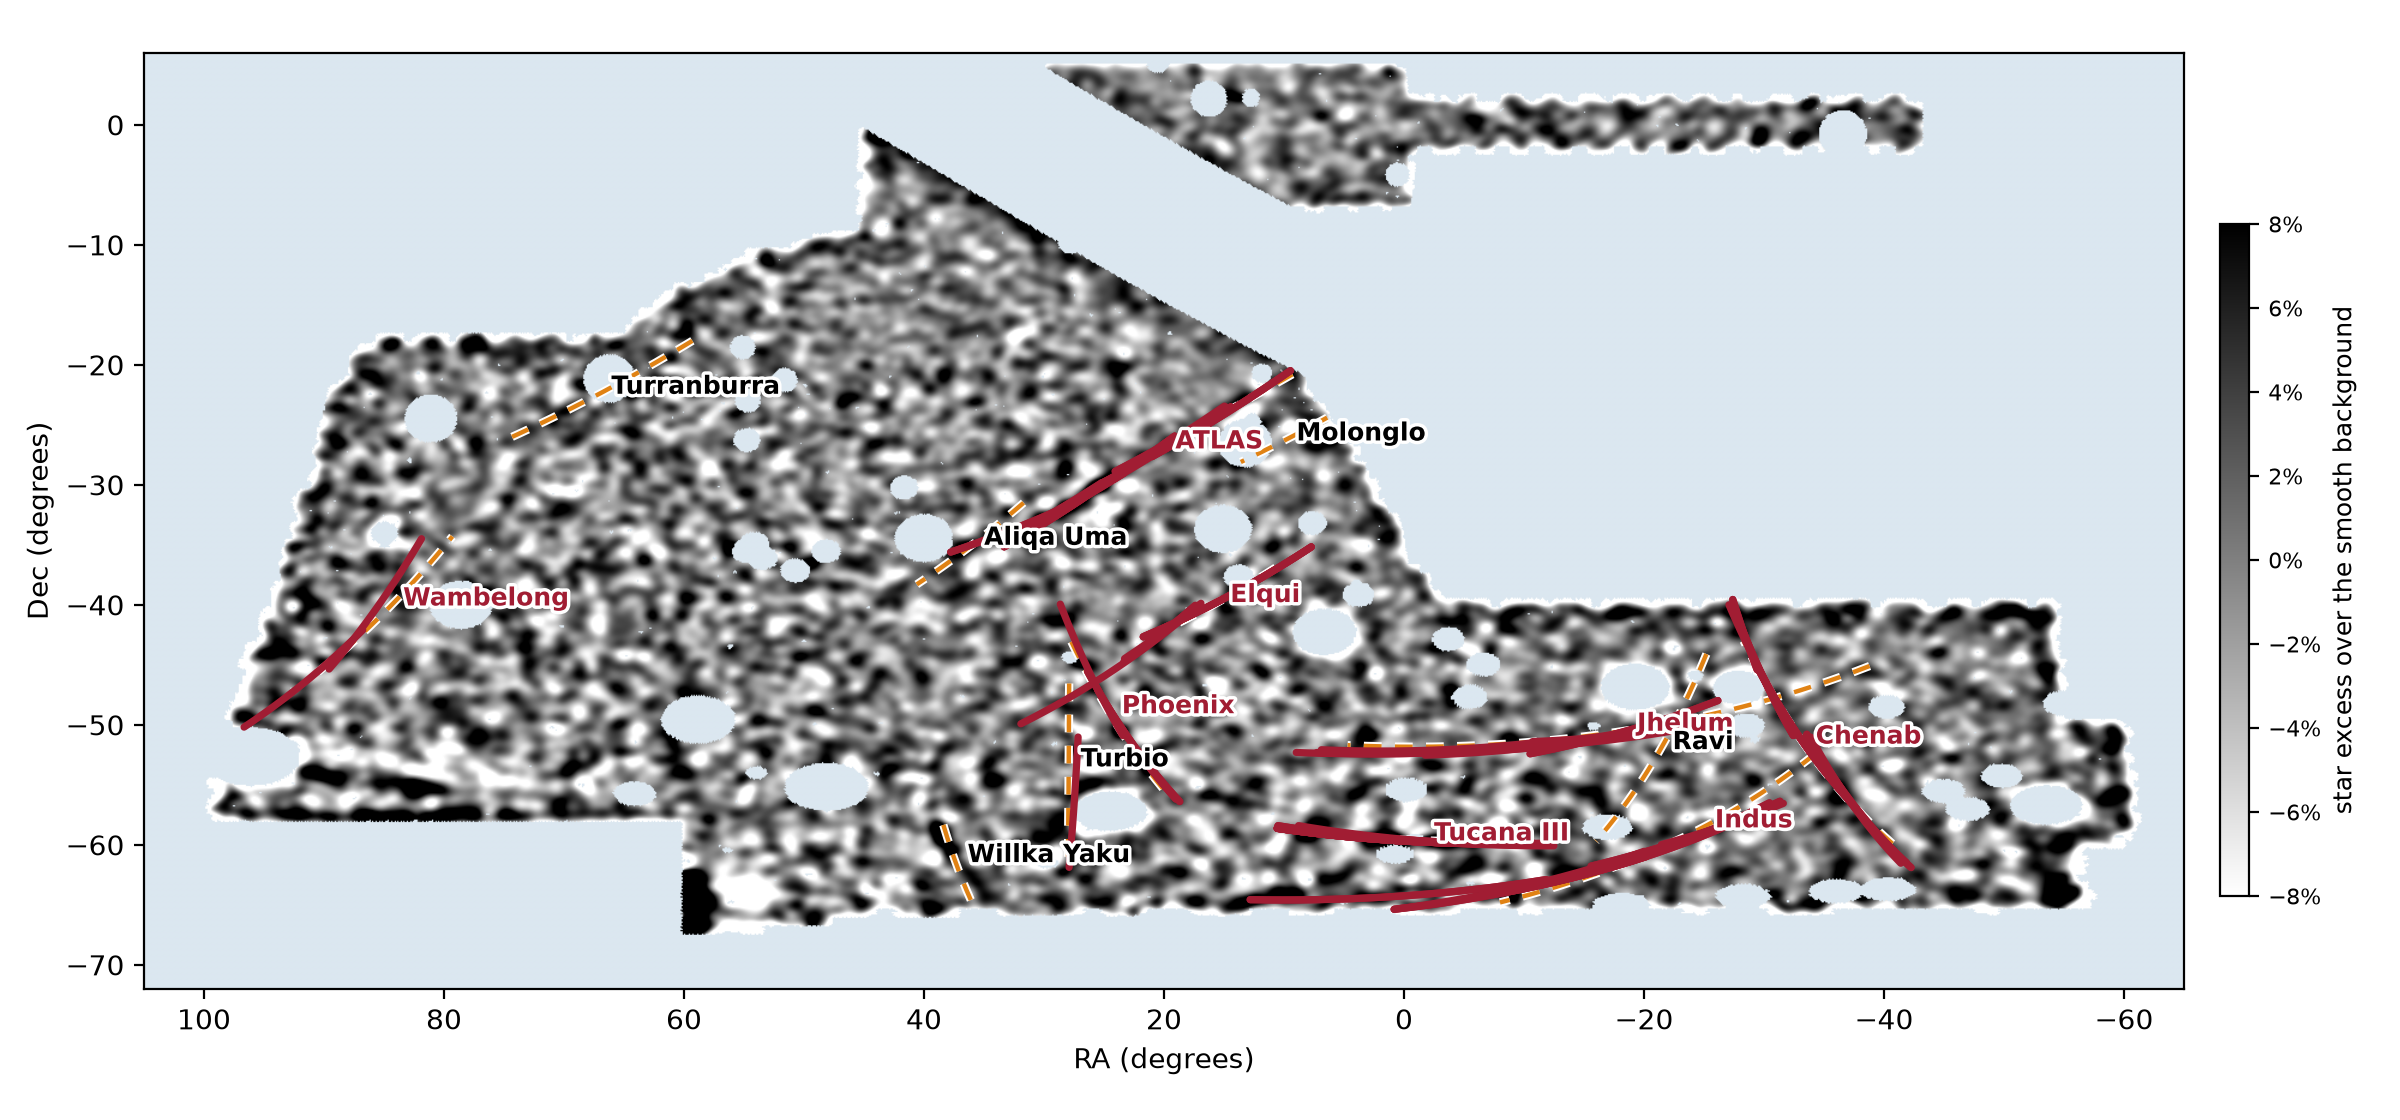
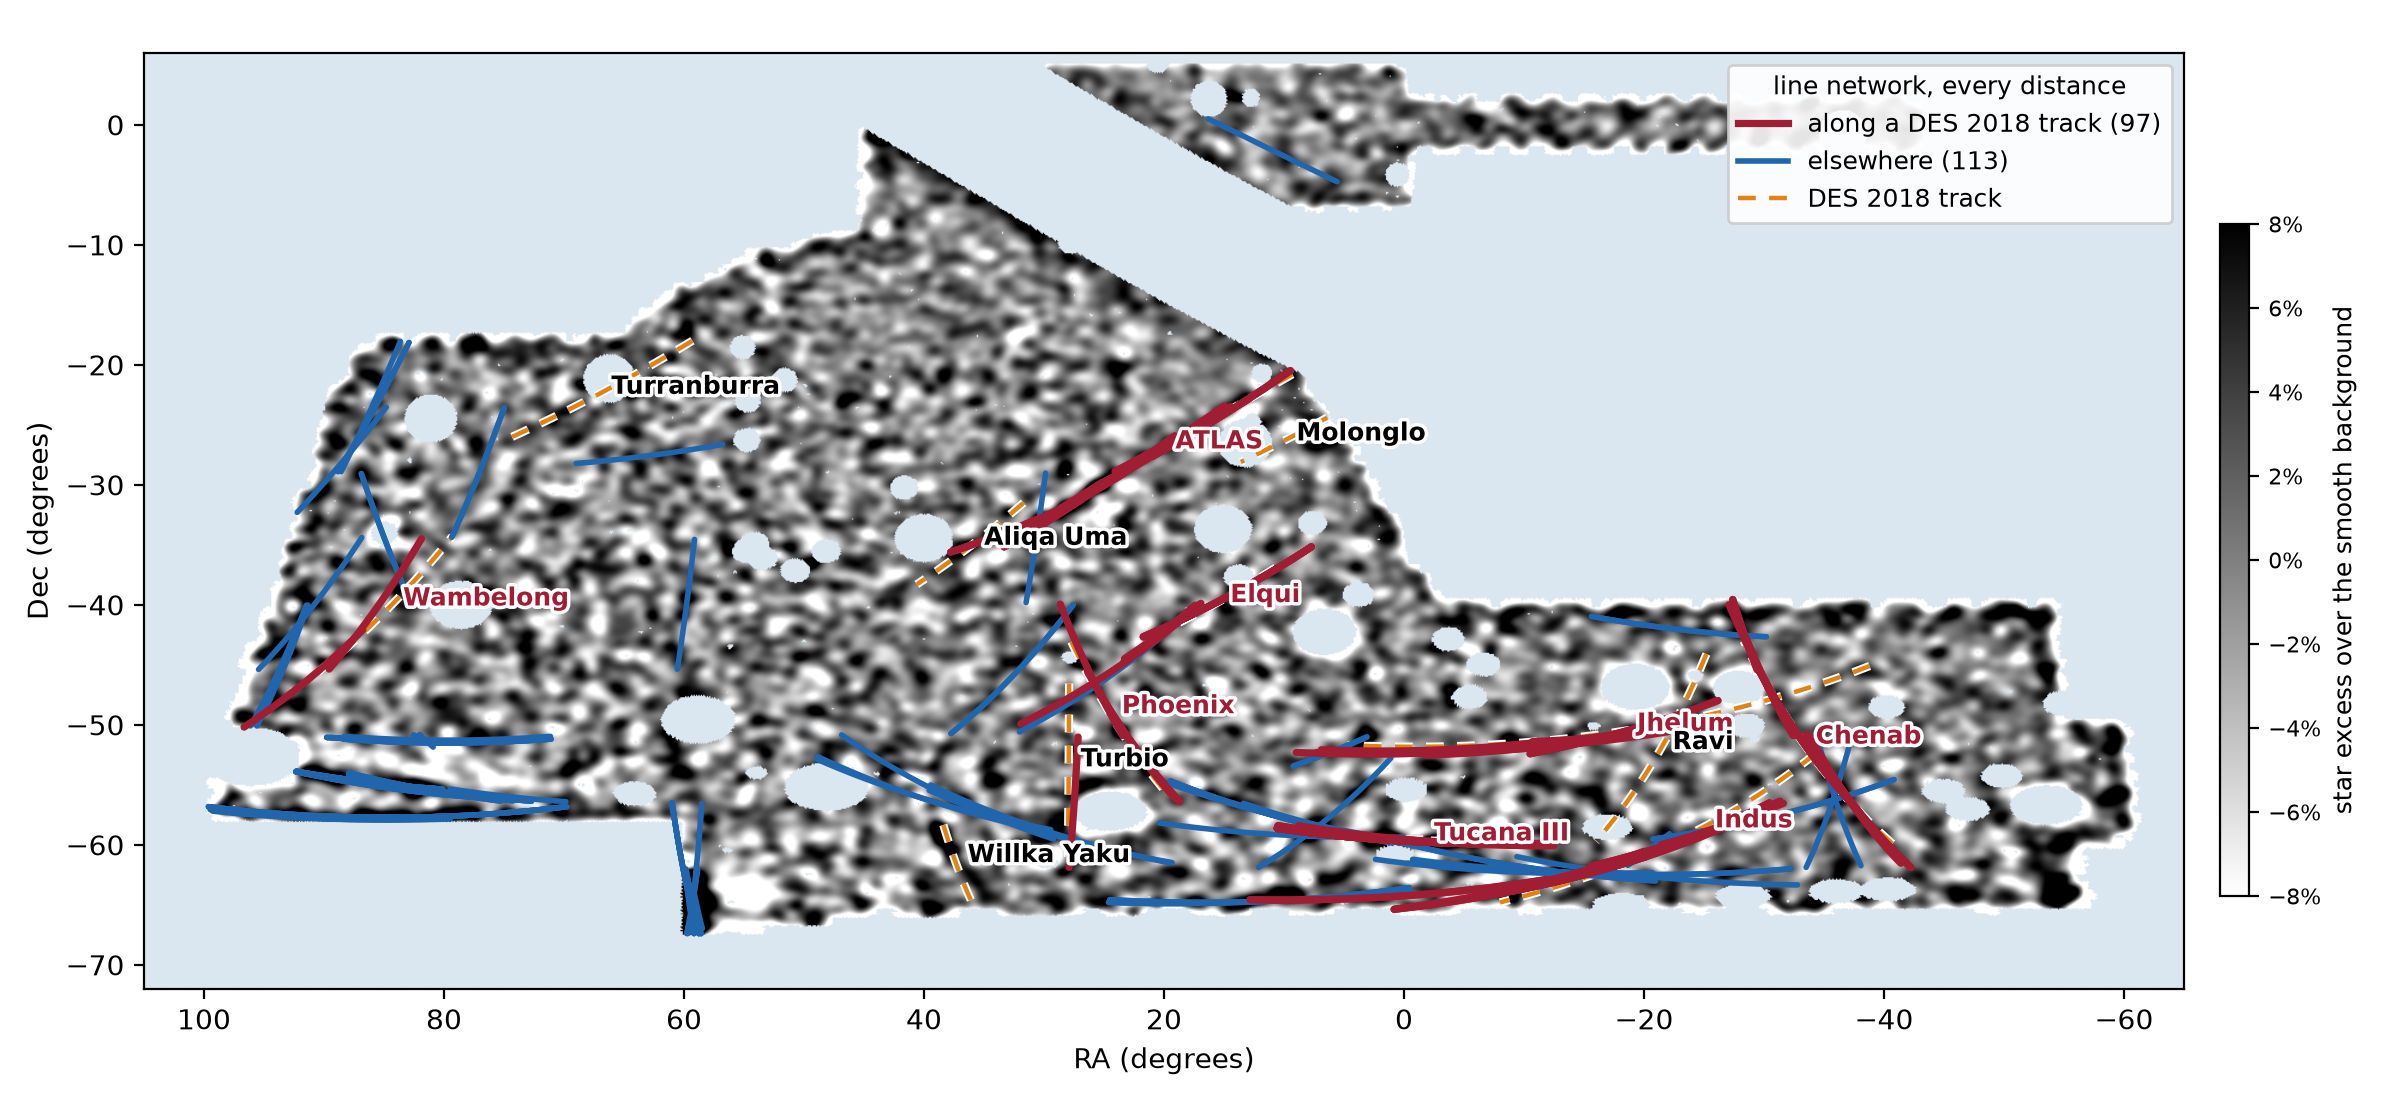
update lines plot with false alarm

diff --git a/scripts/experiments/line_model/run.py b/scripts/experiments/line_model/run.py
@@ -4420,12 +4420,13 @@ def des2018_gif(config="hough/band2s5 residual x4", mask_objects="tight"):
     return lines
 
 
-def talk_sky_panel(ax, image, extent, tracks, lines=(), found=None):
+def talk_sky_panel(ax, image, extent, tracks, lines=(), found=None, other_lines=()):
     """One talk panel: a matched-filter excess map (RA increasing to the
     left), optionally the DES 2018 tracks (dashed) with their names, and
-    lines on top (theme red). tracks: name -> (ra, dec) with RA wrapped to
-    (-180, 180]; lines: (ra, dec) pairs; found: the names to write in red,
-    the rest in black. Black is an excess of stars (`_excess_cmap`). Returns
+    lines on top: `lines` (along a track) in theme red, `other_lines` (the
+    rest) in blue, with a legend when there are any. tracks: name -> (ra,
+    dec) with RA wrapped to (-180, 180]; lines: (ra, dec) pairs; found: the
+    names to write in red, the rest in black. Black is an excess of stars (`_excess_cmap`). Returns
     the image, for a colour bar. Pure plotting, no data access, so it runs
     on fakes."""
     from matplotlib import patheffects
@@ -4442,8 +4443,23 @@ def talk_sky_panel(ax, image, extent, tracks, lines=(), found=None):
         label = ax.text(ra[middle] - 1.0, dec[middle], name, fontsize=9,
                         color=red if hit else "black", weight="bold")  # fmt: skip
         label.set_path_effects([patheffects.withStroke(linewidth=2.5, foreground="white")])
+    blue = "#2166ac"
+    for ra, dec in other_lines:
+        ax.plot(ra, dec, color=blue, lw=2.0, solid_capstyle="round")
     for ra, dec in lines:
         ax.plot(ra, dec, color=red, lw=2.6, solid_capstyle="round")
+    if len(lines) or len(other_lines):
+        from matplotlib.lines import Line2D
+
+        ax.legend(
+            handles=[
+                Line2D([], [], color=red, lw=2.6, label=f"along a DES 2018 track ({len(lines)})"),
+                Line2D([], [], color=blue, lw=2.0, label=f"elsewhere ({len(other_lines)})"),
+                Line2D([], [], color="#e08214", lw=1.6, ls=(0, (4, 3)), label="DES 2018 track"),
+            ],
+            loc="upper right", fontsize=9, framealpha=0.9,
+            title="line network, every distance", title_fontsize=9,
+        )  # fmt: skip
     ax.set_xlim(extent[1], extent[0])
     ax.set_ylim(extent[2], extent[3])
     ax.set_xlabel("RA (degrees)")
@@ -4455,10 +4471,12 @@ def talk_figures(config="hough/band2s5 residual x4", mask_objects="tight", query
     """Two slide figures of the DES sky at one queried distance, both on
     `des2018_excess_maps`: talk_des_sky.png, the bare map ("find the
     streams in this"), and talk_des_sky_found.png, the same map with the
-    fourteen DES 2018 tracks (dashed), every line the line network alone
-    reports along one of them (its own 1% level, any distance; from the
-    detections `line_sky_matches` marks), and the names of the streams it
-    finds beyond random tracks (`line_sky_chance`) in red. Black is an
+    fourteen DES 2018 tracks (dashed) and every line the line network alone
+    detects on the whole sky, at any distance (its own level: the best line
+    of 1% of stream-free windows): red, along a DES 2018 track (marked by
+    `line_sky_matches`); blue, the rest (the Magellanic Clouds' outskirts,
+    other structures, false lines). Names: red, the streams it finds beyond
+    random tracks (`line_sky_chance`); black, the others. Black is an
     excess of stars, white a lack, pale blue no data (`_excess_cmap`)."""
     import matplotlib
 
@@ -4479,12 +4497,12 @@ def talk_figures(config="hough/band2s5 residual x4", mask_objects="tight", query
 
     name = config.replace("/", "_") + _suffix(mask_objects)
     detections = pd.read_csv(LINE_SKY / f"detections_{name}.csv")
-    mine = detections[_chosen(detections, "network")
-                      & (detections["along"].fillna("") != "")]  # fmt: skip
-    lines = []
-    for row in mine.itertuples():
+    network = detections[_chosen(detections, "network")]
+    on_track = network["along"].fillna("") != ""
+    lines, other_lines = [], []
+    for row, along in zip(network.itertuples(), on_track, strict=True):
         ra, dec = _arc(row.ra1, row.dec1, row.ra2, row.dec2, 20)
-        lines.append((wrap(ra), dec))
+        (lines if along else other_lines).append((wrap(ra), dec))
     matches = pd.read_csv(LINE_SKY / f"matches_{name}.csv")
     found = set(matches.loc[matches["network p"] <= LINE_SKY_SIGNIFICANCE, "stream"])
     tracks = {}
@@ -4494,7 +4512,8 @@ def talk_figures(config="hough/band2s5 residual x4", mask_objects="tight", query
     DOC_FIGURES.mkdir(parents=True, exist_ok=True)
     for file, kwargs in (
         ("talk_des_sky.png", {}),
-        ("talk_des_sky_found.png", {"tracks": tracks, "lines": lines, "found": found}),
+        ("talk_des_sky_found.png",
+         {"tracks": tracks, "lines": lines, "found": found, "other_lines": other_lines}),
     ):
         fig, ax = plt.subplots(figsize=(12, 5.6))
         fig.subplots_adjust(left=0.06, right=0.91, top=0.98, bottom=0.09)
@@ -4502,7 +4521,8 @@ def talk_figures(config="hough/band2s5 residual x4", mask_objects="tight", query
         _excess_colorbar(fig, shown, cax=fig.add_axes([0.925, 0.2, 0.012, 0.6]))
         fig.savefig(DOC_FIGURES / file, dpi=200)
         plt.close(fig)
-    print(f"network: {len(lines)} lines along DES 2018 tracks; found {len(found)}: "
+    print(f"network: {len(lines) + len(other_lines)} lines, {len(lines)} along DES 2018 "
+          f"tracks; found {len(found)}: "
           f"{', '.join(sorted(found))}")  # fmt: skip
 
 

diff --git a/docs/source/narrative/project_overview.md b/docs/source/narrative/project_overview.md
@@ -347,16 +347,22 @@ they are short or faint, and their lines do not beat every line of
 stream-free sky. Willka Yaku is found blind by the matched filter's line
 sums, which makes 9 for the two searches together.
 
-```{image} ../experiments/figures/line_model/des2018_sky_17.png
-:alt: The matched filter over the DES footprint at m-M 17, with the lines the sky search finds and the DES 2018 tracks
+```{image} ../experiments/figures/line_model/talk_des_sky_found.png
+:alt: The DES sky at m-M 17 with the DES 2018 tracks and every line the line network detects on the whole sky, red along a known track, blue elsewhere
 :width: 100%
 ```
 
-*The blind sky search at m−M = 17: black, more stars than the smooth
-background; pale blue, no data. Lines found (colored by what they lie
-along) and the DES 2018 tracks (dashed). All distances:
-{doc}`../experiments/line_model/line_sky`. A version for slides, with only
-the line network's lines along the tracks: `python
+*The blind sky search with the line network alone. Background: the DES
+matched-filter map at m−M = 17 (black, more stars than the smooth
+background; pale blue, no data). Dashed orange: the 14 DES 2018 tracks.
+Lines: every line the network detects, at every queried distance (m−M
+15-19), each scored above its level — the score the best line reaches in
+only 1% of stream-free windows. Red, along a DES 2018 track; blue,
+elsewhere (mostly the Magellanic Clouds' outskirts at m−M 18-19, and a
+group in the east, {doc}`../experiments/line_model/line_followup`). Names
+in red: found beyond random tracks; black: not found. Distance by distance,
+with the matched filter's lines too: {doc}`../experiments/line_model/line_sky`
+and {doc}`../experiments/line_model/summary`. `python
 scripts/experiments/line_model/run.py talk-figures`.*
 
 - Trained only on simulations, the line search recovers most known streams
